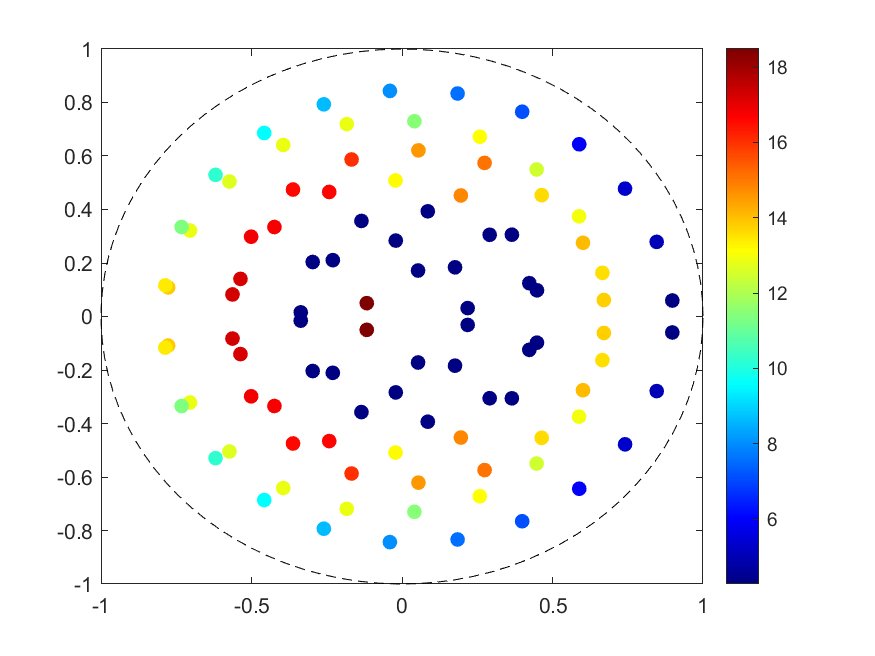
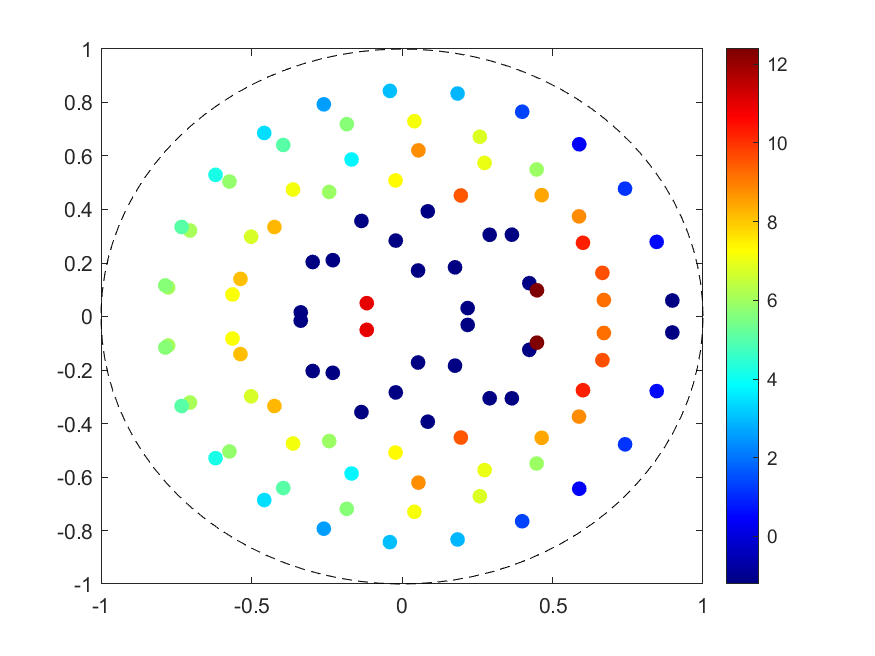
fixed the stupid partial fractions thing

diff --git a/lab3/table.tex b/lab3/table.tex
@@ -1,30 +1,17 @@
 \begin{tabular}{lllllllllll}
 & Constraint_Max_U & Constraint_Max_OS & Constraint_Max_TS & Constraint_ObjectiveValue & Constraint_NumPoles & RESULT_Ess & RESULT_UMax & RESULT_OS & RESULT_SettlingTime & RESULT_UTotalVariation \\ 
 \hline 
-Attempt_1 & 0.7 & 0.45 & 7 & 0 & 100 & -0.0011072 & 0.42944 & 43.9536 & 7 & 6.512 \\ 
-Attempt_2 & 0.7 & 0.45 & 7 & 1 & 100 & 9.3519e-06 & 0.20474 & 45.0004 & 7 & 3.8773 \\ 
-Attempt_3 & 0.7 & 0.44 & 7 & 1 & 100 & -4.2782e-05 & 0.24332 & 44.0008 & 7 & 3.8143 \\ 
-Attempt_4 & 0.7 & 0.44 & 7 & 0 & 86 & 9.5109e-05 & 0.43309 & 43.5161 & 7 & 5.4494 \\ 
-Attempt_5 & 0.7 & 0.44 & 7 & 2 & 86 & -0.00036038 & 0.49868 & 44.0053 & 7 & 4.5182 \\ 
-Attempt_6 & 0.7 & 0.44 & 7 & 0 & 64 & 2.3202e-05 & 0.45949 & 43.0167 & 7 & 5.0584 \\ 
-Attempt_7 & 0.7 & 0.44 & 7 & 2 & 64 & 6.9202e-06 & 0.48263 & 44.0046 & 7 & 4.3119 \\ 
-Attempt_8 & 0.7 & 0.44 & 7 & 1 & 64 & -1.8029e-05 & 0.31675 & 44.0015 & 7 & 4.7665 \\ 
-Attempt_9 & 0.7 & 0.44 & 7 & 0 & 50 & -5.2209e-06 & 0.48545 & 43.0947 & 7 & 5.9782 \\ 
-Attempt_10 & 0.7 & 0.44 & 7 & 1 & 50 & 1.7874e-06 & 0.35396 & 44.0002 & 7 & 8.3428 \\ 
-Attempt_11 & 0.7 & 0.44 & 7 & 2 & 50 & 6.4025e-05 & 0.58837 & 44.0069 & 6.75 & 4.6808 \\ 
-Attempt_12 & 0.7 & 0.44 & 7 & 2 & 40 & -4.7093e-05 & 0.64196 & 44.0289 & 6.75 & 4.2697 \\ 
-Attempt_13 & 0.65 & 0.44 & 7 & 2 & 40 & -7.8576e-05 & 0.64986 & 44.0409 & 6.75 & 4.6632 \\ 
-Attempt_14 & 0.65 & 0.44 & 7 & 2 & 24 & 5.20187579219625e+23 & 3.196651958415065e+23 & NaN & NaN & 3.196651958415065e+23 \\ 
-Attempt_15 & 0.65 & 0.44 & 7 & 2 & 38 & -0.0001432 & 0.65002 & 44.0032 & 6.75 & 4.73 \\ 
-Attempt_16 & 0.65 & 0.44 & 7 & 2 & 36 & 0.00014359 & 0.64933 & 44.4976 & 6.75 & 4.3778 \\ 
-Attempt_17 & 0.65 & 0.44 & 7 & 2 & 34 & 9.2725e-05 & 0.64975 & 44.1741 & 6.75 & 4.2756 \\ 
-Attempt_18 & 0.65 & 0.44 & 7 & 2 & 32 & -6.2374e-07 & 0.64983 & 44.0064 & 6.75 & 4.8836 \\ 
-Attempt_19 & 0.65 & 0.44 & 7 & 2 & 30 & 1.137108625331022e+22 & 0.64919 & NaN & NaN & 5.117 \\ 
-Attempt_20 & 0.65 & 0.44 & 7 & 2 & 30 & 4.1772e-05 & 0.64986 & 44.0315 & 6.72 & 4.0313 \\ 
-Attempt_21 & 0.65 & 0.44 & 7 & 2 & 30 & 4.1772e-05 & 0.64986 & 44.0315 & 6.72 & 4.0313 \\ 
-Attempt_22 & 0.65 & 0.44 & 7 & 2 & 28 & 8.8333e-06 & 0.65 & 44.0007 & 6.72 & 4.0365 \\ 
-Attempt_23 & 0.65 & 0.44 & 7 & 2 & 24 & 1.0821e-05 & 0.64999 & 44.0008 & 6.72 & 4.6767 \\ 
-Attempt_24 & 0.65 & 0.44 & 7 & 2 & 22 & 3.125701247605581e+22 & 0.64775 & NaN & NaN & 5.2408 \\ 
-Attempt_25 & 0.65 & 0.44 & 7 & 1 & 24 & -3.5288e-06 & 0.17134 & 44 & 6.24 & 2.7938 \\ 
+Attempt_1 & 0.7 & 0.45 & 7 & 2 & 100 & -2.2627e-05 & 0.57561 & 45.0006 & 6.48 & 2.2552 \\ 
+Attempt_2 & 0.7 & 0.45 & 7 & 2 & 74 & 4.3042e-06 & 0.64708 & 45 & 6.48 & 3.0421 \\ 
+Attempt_3 & 0.7 & 0.45 & 7 & 2 & 56 & 2.2047e-06 & 0.62786 & 45 & 6.48 & 2.4953 \\ 
+Attempt_4 & 0.6 & 0.4 & 7 & 2 & 46 & 3.1055e-07 & 0.6 & 40.0003 & 6.48 & 2.7666 \\ 
+Attempt_5 & 0.6 & 0.4 & 7 & 2 & 34 & -2.769e-06 & 0.6 & 40 & 6.48 & 2.6611 \\ 
+Attempt_6 & 0.6 & 0.4 & 7 & 2 & 32 & -2.9586e-06 & 0.6 & 40 & 6.48 & 2.9299 \\ 
+Attempt_7 & 0.625 & 0.425 & 7 & 2 & 32 & -2.5189e-06 & 0.625 & 42.5 & 6.48 & 2.7312 \\ 
+Attempt_8 & 0.625 & 0.425 & 7 & 2 & 28 & 2.0664e-07 & 0.625 & 42.5001 & 6 & 2.9332 \\ 
+Attempt_9 & 0.625 & 0.425 & 7 & 2 & 26 & -5.3354e-07 & 0.625 & 42.5 & 5.52 & 4.4849 \\ 
+Attempt_10 & 0.625 & 0.425 & 7 & 2 & 24 & -0.00024227 & 0.625 & 42.5001 & 5.28 & 5.5372 \\ 
+Attempt_11 & 0.625 & 0.425 & 7 & 2 & 22 & -0.00020084 & 0.625 & 42.4999 & 5.28 & 7.0395 \\ 
+Attempt_12 & 0.625 & 0.425 & 7 & 2 & 22 & -0.00020084 & 0.625 & 42.4999 & 5.28 & 7.0395 \\ 
 \hline 
 \end{tabular}

diff --git a/lab3/iop_control_design_integrator.m b/lab3/iop_control_design_integrator.m
@@ -3,9 +3,9 @@ clc
 close all
 load 'poles_B.mat'
 
-attempt_number = 25; 
-load('polesets.mat');
-poleset = prune_11.'
+attempt_number = 12; 
+load('new_plant_polesets.mat')
+poleset = prune_10.'
 % set time step
 k_2 = 0.06091;
 k_3 = -4.0162;
@@ -25,8 +25,8 @@ center = 0;
 
 %specs
 ref_amplitude = 0.15; 
-max_U = 0.65
-max_OS = 1.44;
+max_U = 0.625;
+max_OS = 1.425;
 max_ts = 7; 
 max_ess = 0; 
 
@@ -266,10 +266,10 @@ end
 
 %% Defining the objective function and constraints for the optimization
 %Objective = 0;
-Objective = max(step_ru*w);
+%Objective = max(step_ru*w);
 %Objective = min(max(step_ru*w));
-Objective_num = 1;
-%Objective = norm(step_ru*w, 2); 
+Objective_num = 2;
+Objective = norm(step_ru*w, 2); 
 
 %objective_num legend:
 %1 --> %Objective = max(step_ru*w);
@@ -442,7 +442,7 @@ Y_final = y_data(end);
 [u_data, ~] = step(T_ru, opt);
 
 Metric_Ess = ref_amplitude - Y_final; %steady state error
-Metric_UMax = max(u_data); %maximum ctrl input
+Metric_UMax = max(abs(u_data)); %maximum ctrl input
 Metric_YMax = S_y.Peak; %max output
 Metric_OS = S_y.Overshoot;
 Metric_SettlingTime = S_y.SettlingTime;
@@ -483,7 +483,7 @@ allValues = [
 % --- NEW LOGIC: Load, Update, Save (Rows = Attempts, Cols = Metrics) ---
 
 % 1. Define the file name and the new ROW name
-resultsFile = 'optimization_results.mat';
+resultsFile = 'new_plant_optimization_results.mat';
 newRowName = sprintf('Attempt_%d', attempt_number); % Use char ' (not string ")
 
 % 2. Create a new table for THIS attempt's data
